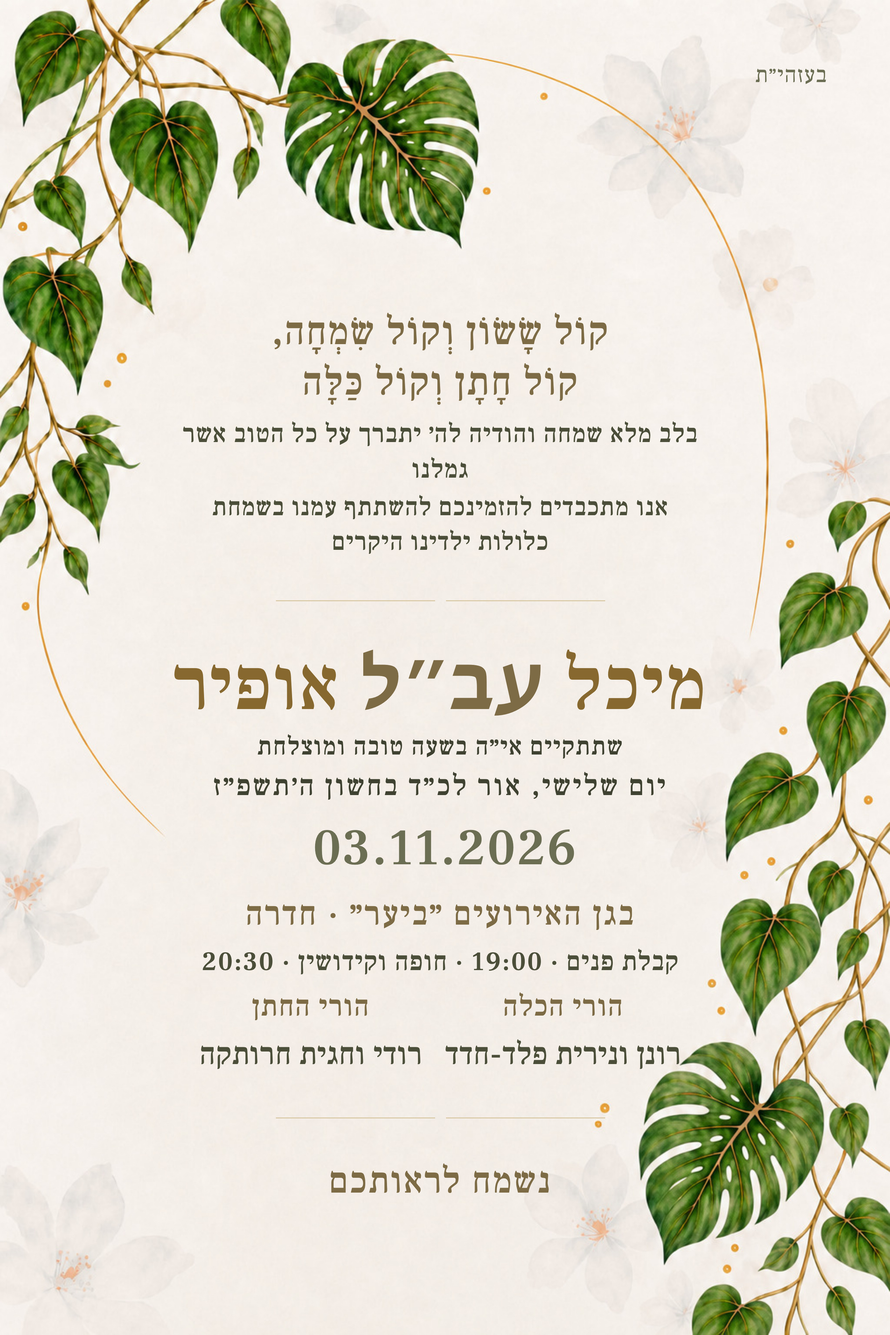
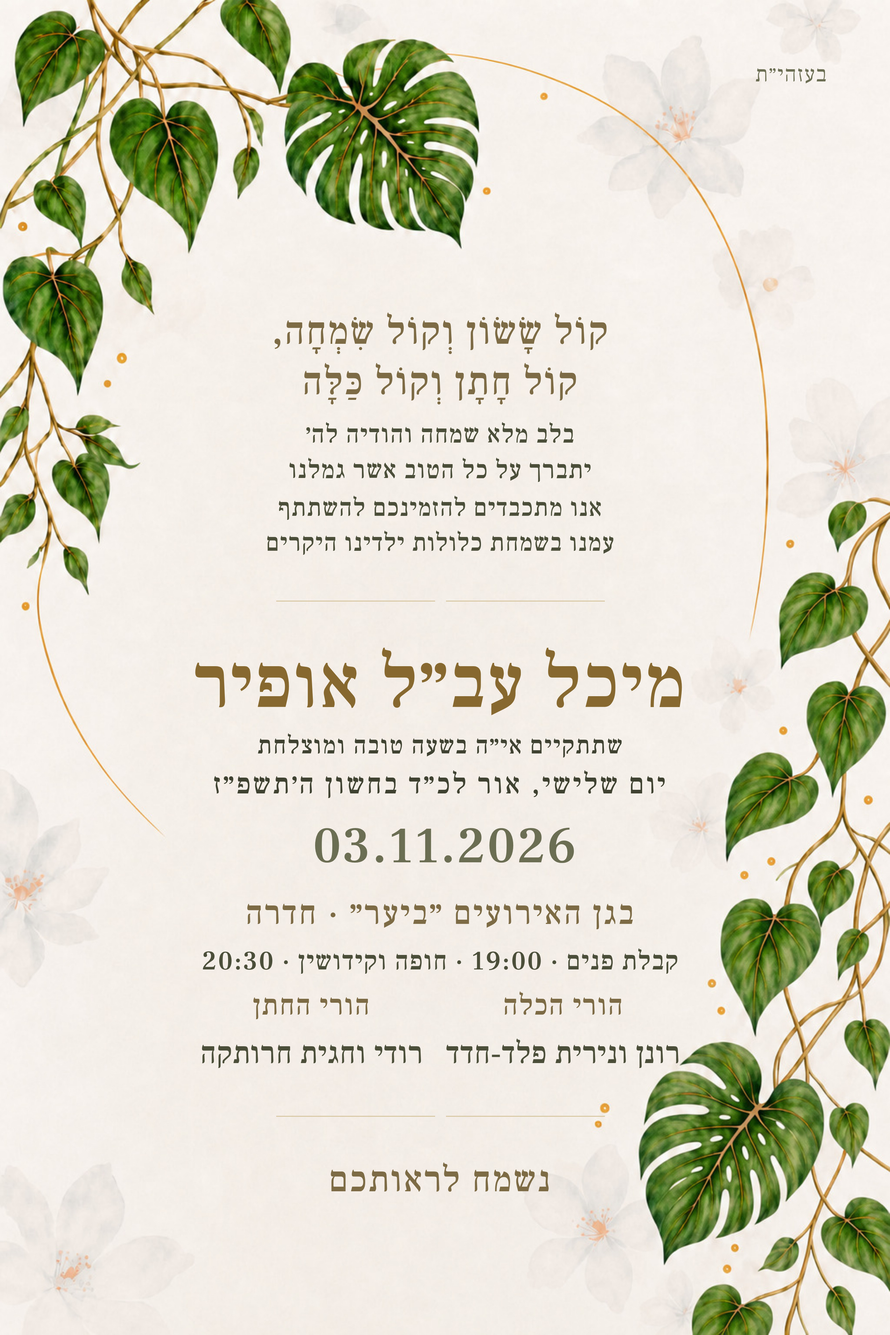
Fix dati invitation typography and line breaks

diff --git a/index.html b/index.html
@@ -547,6 +547,7 @@
   body.dati .hero .invite2 { font-size: max(12px, calc(var(--hs,1) * 2.7cqw)) !important; max-width: 56cqw !important; line-height: 1.4 !important; margin-top: .3cqw !important; }
   body.dati .hero .aye     { font-size: max(12px, calc(var(--hs,1) * 2.7cqw)) !important; margin-top: .3cqw !important; }
   body.dati .hero .names   { margin-top: 1.2cqw !important; }
+  body.dati .hero .names .amp { font-family: inherit; font-size: inherit; font-style: inherit; font-weight: inherit; color: inherit; letter-spacing: inherit; }
   body.dati .hero .parents { margin-top: 1.0cqw !important; }
   body.dati .hero .seeyou  { margin-top: .6cqw !important; }
 </style>
@@ -716,8 +717,8 @@
     // 3.11.2026 is a Tuesday; the chuppah is after nightfall, so the Hebrew day
     // has already turned over from כ״ג to כ״ד בחשון.
     hebdate: 'יום שלישי, אור לכ״ד בחשון ה׳תשפ״ז',
-    invite1: 'בלב מלא שמחה והודיה לה׳ יתברך על כל הטוב אשר גמלנו',
-    invite2: 'אנו מתכבדים להזמינכם להשתתף עמנו בשמחת כלולות ילדינו היקרים',
+    invite1: 'בלב מלא שמחה והודיה לה׳<br>יתברך על כל הטוב אשר גמלנו',
+    invite2: 'אנו מתכבדים להזמינכם להשתתף<br>עמנו בשמחת כלולות ילדינו היקרים',
     reception: 'קבלת פנים · 19:00 · חופה וקידושין · 20:30'
   };
   const lang = new URLSearchParams(location.search).get('lang');
